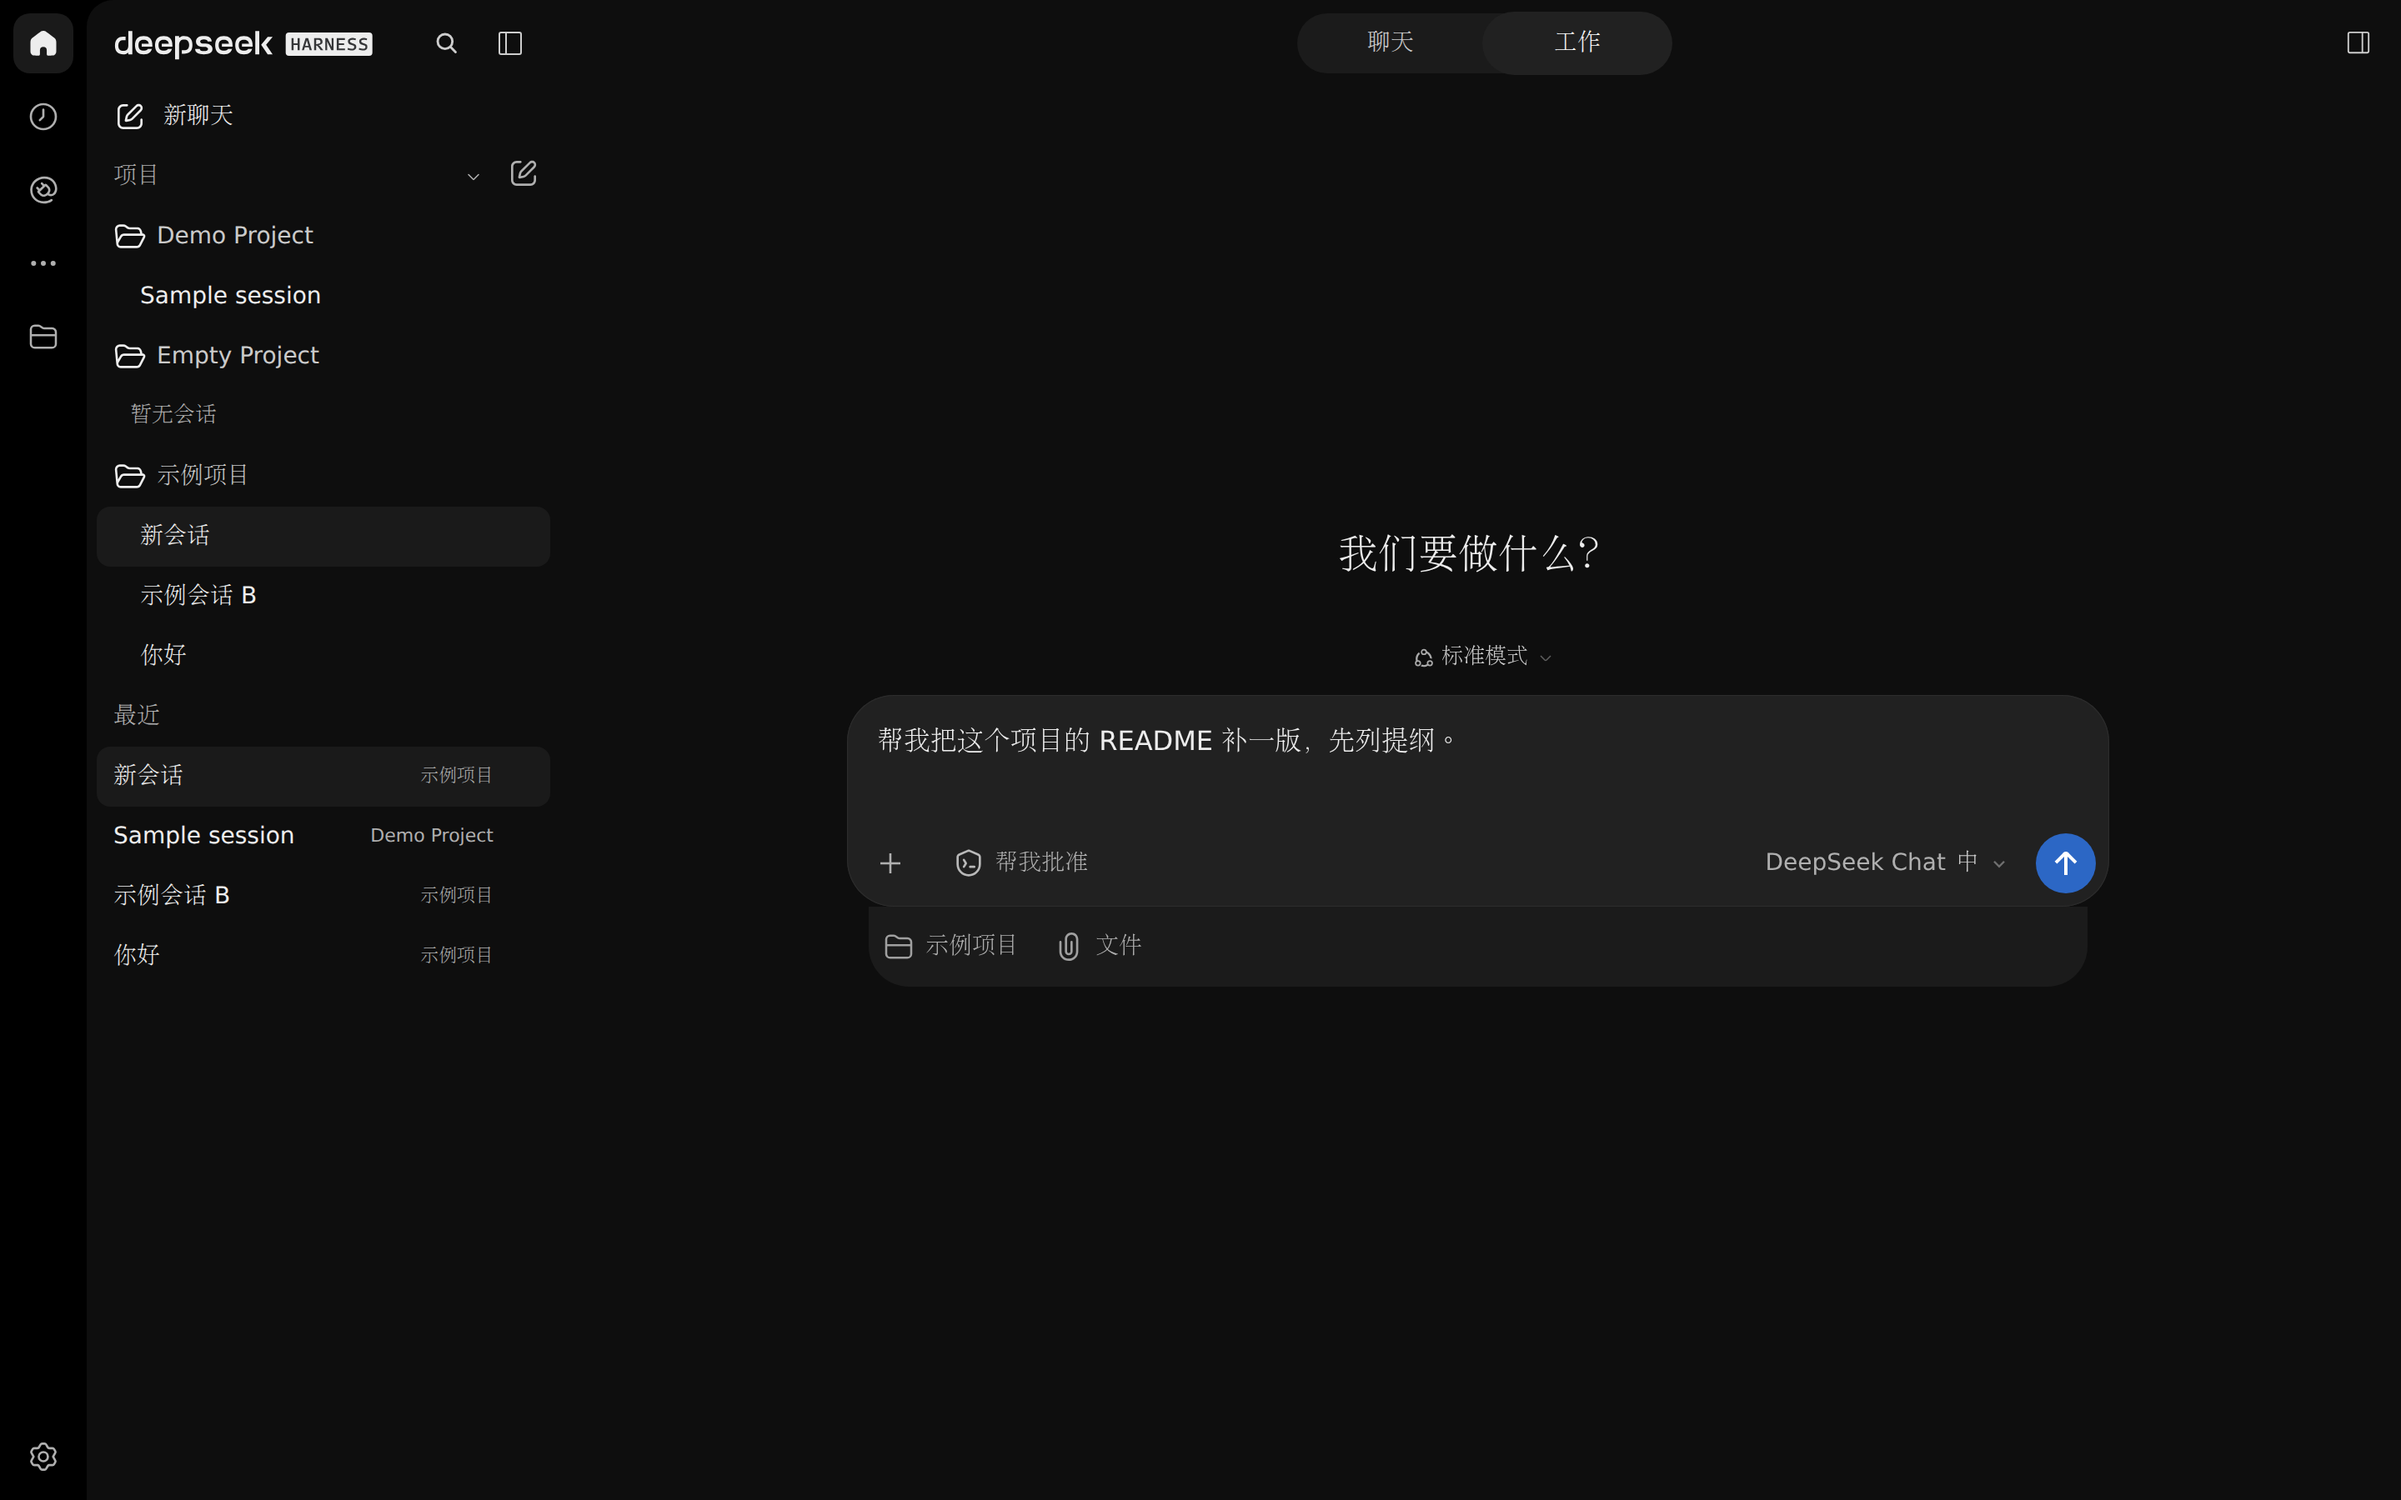
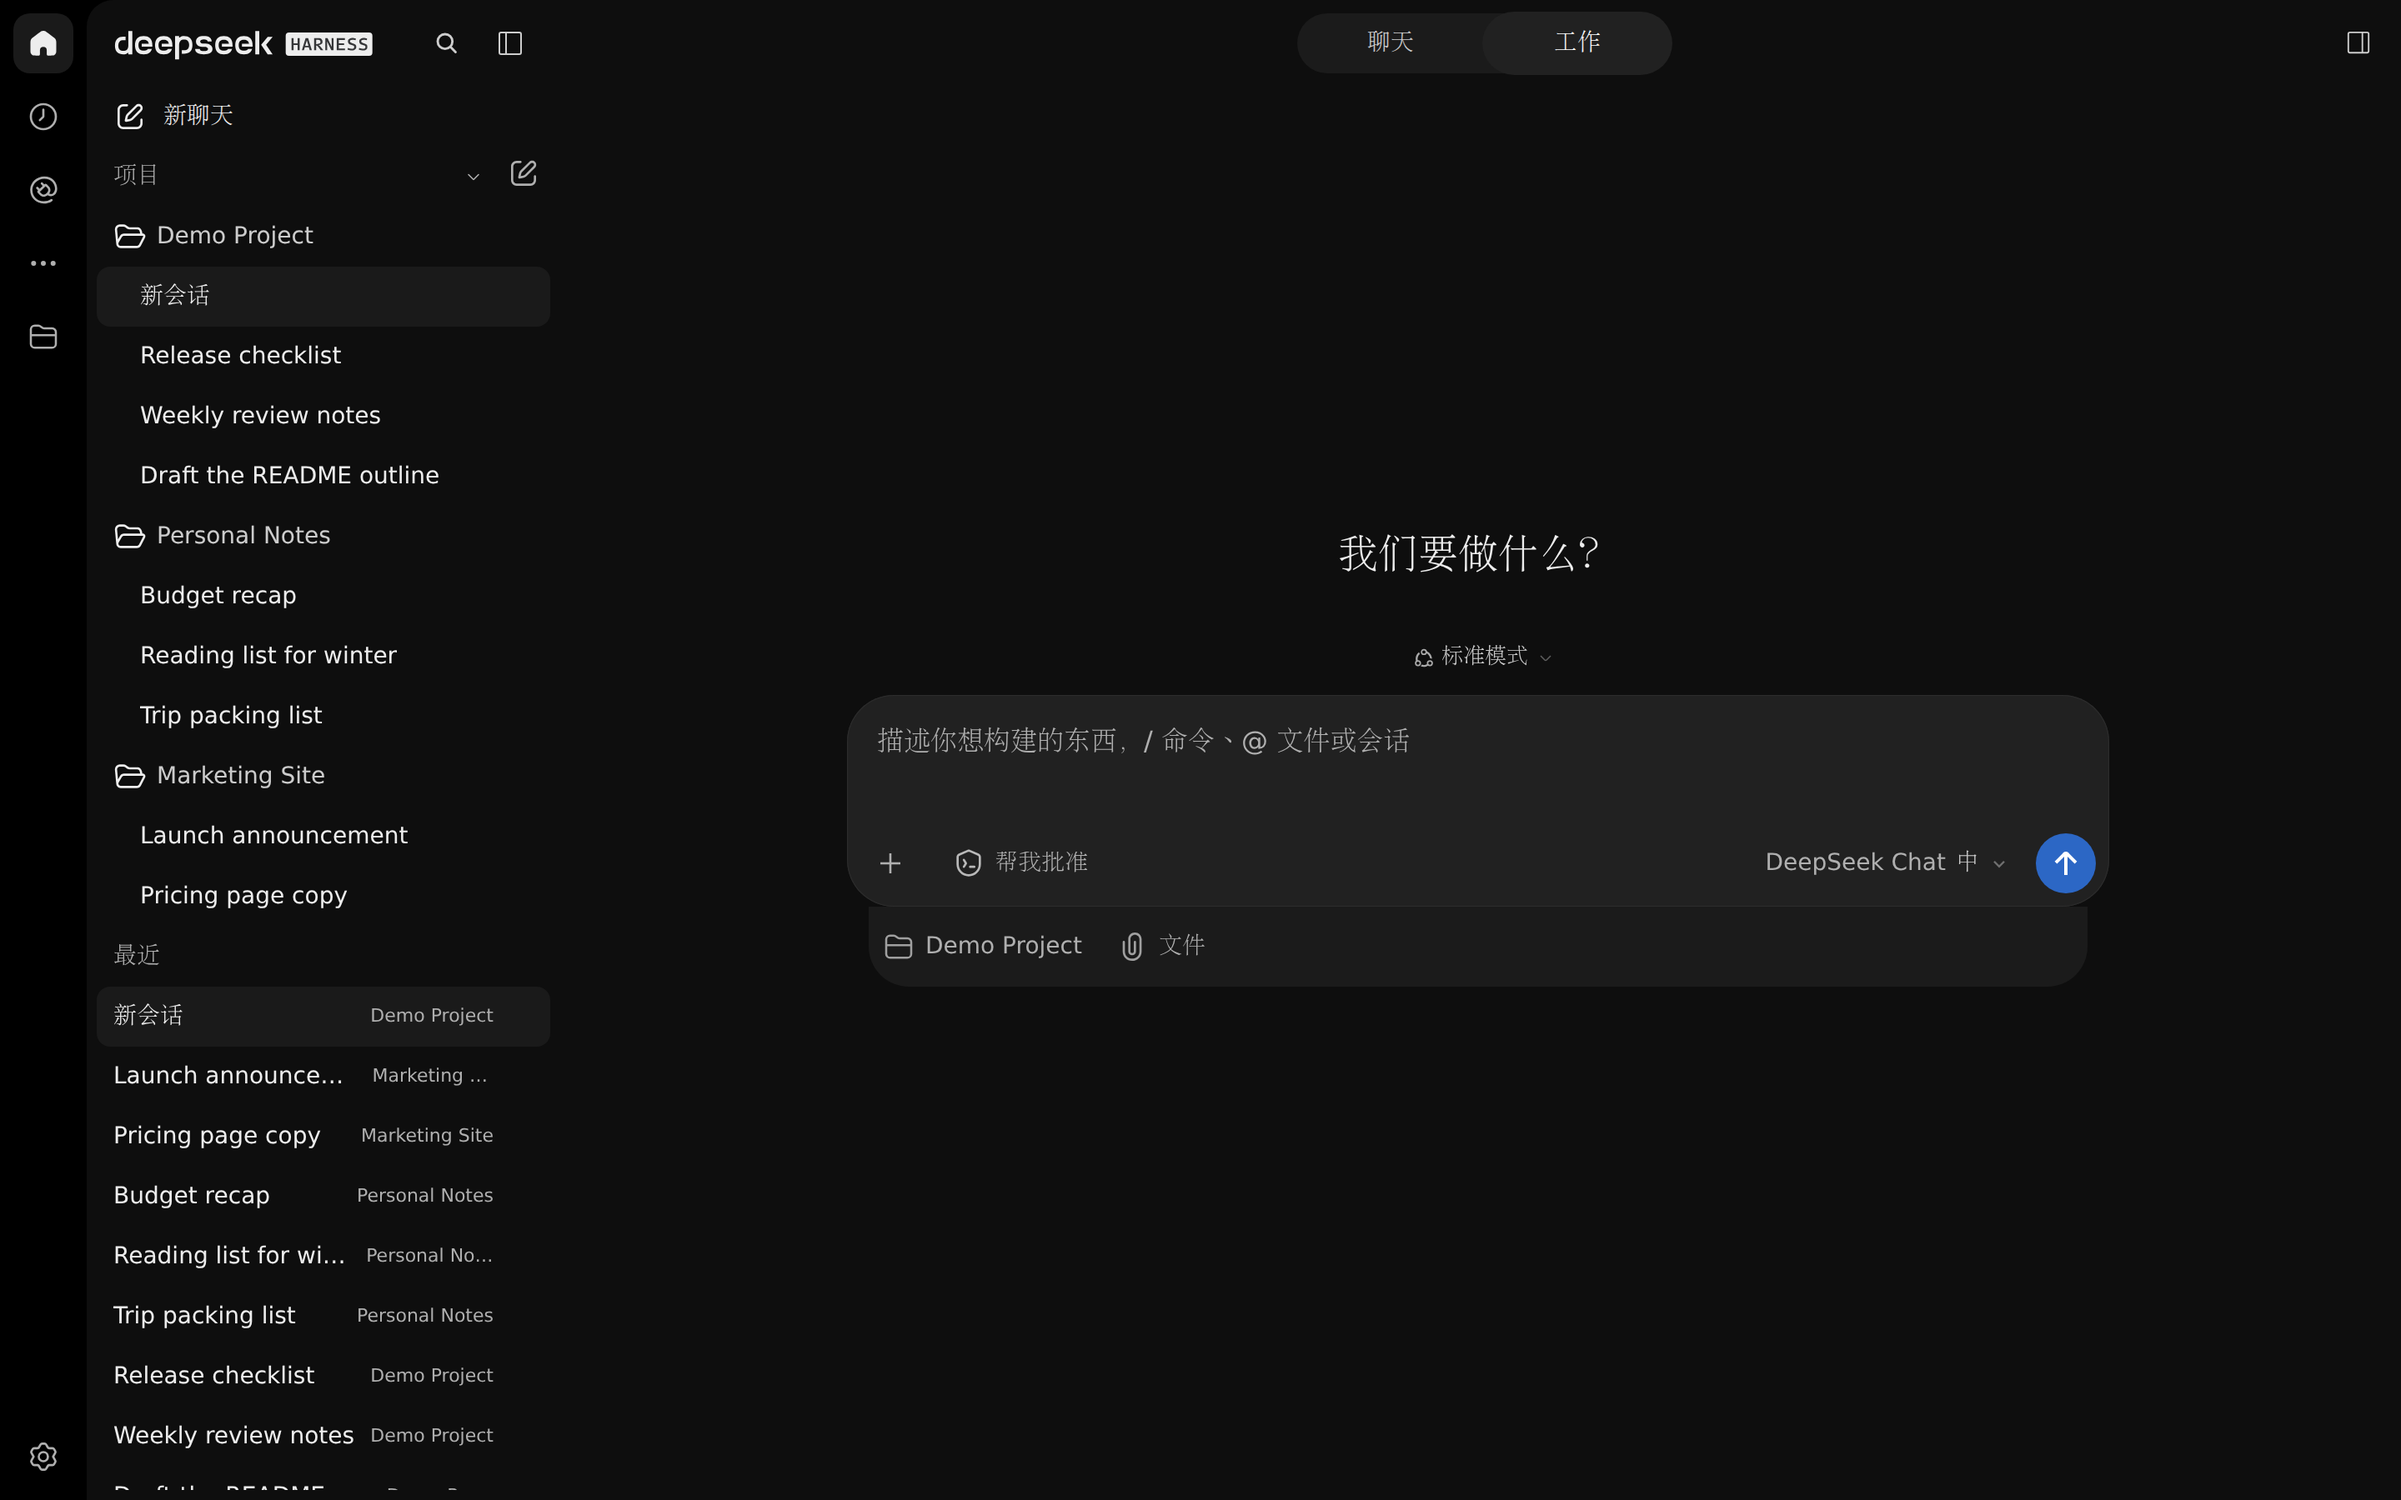
docs: refresh README screenshots
- hero 改成 Chat 空态（我们从哪里开始?），推理强度滑块在卡片上方展开，与 README 文案一致。
- 推理强度面板不再压住输入卡：底边对齐卡片顶部（留 8px），并改为与卡片右缘对齐，
  空态标题不再被遮挡；一个会话只有一个展开的触发药丸。
- 演示数据统一为英文（Demo Project / Personal Notes / Marketing Site），隔离实例重造。
- tools/showcase-capture.mjs 增加自检：滑块存在、面板与卡片不重叠、可见文本无本机路径；
  采集前移开指针，避免项目 hover 卡片挡住对话。
- 回归：work-composer 新增两条面板几何断言。

diff --git a/lib/client.js b/lib/client.js
@@ -6791,9 +6791,20 @@ function chatgptPopoverAbove(anchor, width, height) {
   const margin = 8
   const viewport = typeof window === 'undefined' ? { innerWidth: 1024, innerHeight: 768 } : window
   const left = Math.max(margin, Math.min(viewport.innerWidth - width - margin, anchor.right - width))
-  const above = anchor.top - height - margin
+  /* P1-f2: a panel opened from inside the composer clears the whole card, not
+     just the row its trigger lives in. The model/effort pill sits at the bottom
+     of a card that grows upwards, so anchoring on the pill alone let the panel
+     cover the text area; the project picker already passes the card rect. */
+  const card = typeof document === 'undefined' ? null : document.querySelector('[data-composer-card="true"]')?.getBoundingClientRect()
+  const ceiling = card === undefined ? anchor.top : Math.min(anchor.top, card.top)
+  const above = ceiling - height - margin
   const top = above >= margin ? above : Math.min(viewport.innerHeight - height - margin, anchor.bottom + margin)
-  return { left: Math.round(left), top: Math.round(top) }
+  /* Aligning the panel to the card's right edge keeps it clear of the centred
+     empty-state greeting, which sits only ~40px above the card. */
+  const anchoredLeft = card === undefined
+    ? left
+    : Math.max(margin, Math.min(viewport.innerWidth - width - margin, card.right - width))
+  return { left: Math.round(anchoredLeft), top: Math.round(top) }
 }
 
 /**

diff --git a/lib/client/composer.js b/lib/client/composer.js
@@ -198,9 +198,20 @@ function chatgptPopoverAbove(anchor, width, height) {
   const margin = 8
   const viewport = typeof window === 'undefined' ? { innerWidth: 1024, innerHeight: 768 } : window
   const left = Math.max(margin, Math.min(viewport.innerWidth - width - margin, anchor.right - width))
-  const above = anchor.top - height - margin
+  /* P1-f2: a panel opened from inside the composer clears the whole card, not
+     just the row its trigger lives in. The model/effort pill sits at the bottom
+     of a card that grows upwards, so anchoring on the pill alone let the panel
+     cover the text area; the project picker already passes the card rect. */
+  const card = typeof document === 'undefined' ? null : document.querySelector('[data-composer-card="true"]')?.getBoundingClientRect()
+  const ceiling = card === undefined ? anchor.top : Math.min(anchor.top, card.top)
+  const above = ceiling - height - margin
   const top = above >= margin ? above : Math.min(viewport.innerHeight - height - margin, anchor.bottom + margin)
-  return { left: Math.round(left), top: Math.round(top) }
+  /* Aligning the panel to the card's right edge keeps it clear of the centred
+     empty-state greeting, which sits only ~40px above the card. */
+  const anchoredLeft = card === undefined
+    ? left
+    : Math.max(margin, Math.min(viewport.innerWidth - width - margin, card.right - width))
+  return { left: Math.round(anchoredLeft), top: Math.round(top) }
 }
 
 /**

diff --git a/docs/testing.md b/docs/testing.md
@@ -53,10 +53,10 @@ npm test                # 需要本机证据
 ```sh
 export DSH_HOME=$(mktemp -d /tmp/dsh-demo-XXXX)
 dsh plugin --profile web add /path/to/dsh-chatgpt-ui
-dsh web --no-open --port 3104          # 打印带 token 的 URL
+dsh web --no-open --port 3105          # 打印带 token 的 URL
 ```
 
-- **矩阵**：`npm run matrix -- --url "http://127.0.0.1:3104/?token=…" --playwright …`
+- **矩阵**：`npm run matrix -- --url "http://127.0.0.1:3105/?token=…" --playwright …`
   （即 `scripts/matrix9.mjs`），产出 `docs/screenshots/matrix9-*.png` 与
   `docs/matrix9.json`；有 `diff`/`missing` 时非零退出，`--allow-diff` 只报告。
 - **全景矩阵（开发工具）**：`node tools/matrix.mjs --url-dark … --url-light … --out docs`，
@@ -75,13 +75,17 @@ dsh web --no-open --port 3104          # 打印带 token 的 URL
 README 里的四张图由 `tools/showcase-capture.mjs` 生成，同样只连隔离实例：
 
 ```sh
-node tools/showcase-capture.mjs --url "http://127.0.0.1:3104/?token=…"
+node tools/showcase-capture.mjs --url "http://127.0.0.1:3105/?token=…"
 ```
 
-脚本会拒绝非 `127.0.0.1:3104` 的地址，固定 1440×900 @2x、深色、zh-CN，并断言推理
-强度滑块确实展开。演示数据要求：两个项目（`示例项目` / `Demo Project`）加一个空项目
-（`Empty Project`），三个会话（`你好` / `示例会话 B` / `Sample session`）。
-截图里不得出现真实项目名、会话标题、路径或头像——提交前逐张目检。
+脚本默认只接受 `127.0.0.1:3105`（可用 `--port` 改），固定 1440×900 @2x、深色、
+zh-CN，并断言：推理强度滑块确实展开、面板底边与输入卡顶边不重叠、只存在一个展开的
+触发药丸、没有 hover 卡片遮住对话、界面里不出现本机路径。
+
+演示数据全部用英文，避免和中文界面混在一起：三个项目 `Demo Project`（3 条会话）、
+`Personal Notes`（3 条）、`Marketing Site`（2 条），其中 `Draft the README outline`
+有一条完整对话（用户气泡 + 助手回答）。截图里不允许出现真实项目名、会话标题、
+用户路径或头像——提交前逐张目检。
 
 ## 6. 已知的验收边界
 

diff --git a/README.md b/README.md
@@ -3,7 +3,7 @@
 ChatGPT 桌面版风格的 DSH Web GUI 皮肤：只换外观，不动行为——装与不装插件，
 任务/目标、执行步骤、文件与输出聚合、折叠面板全部原样保留。
 
-![新建会话（深色），推理强度滑块展开](docs/images/new-session-effort-dark.png)
+![Chat 模式空态（深色），推理强度滑块在输入卡上方展开](docs/images/new-session-effort-dark.png)
 
 ## 亮点
 
@@ -35,12 +35,12 @@ dsh plugin --profile web add /path/to/dsh-chatgpt-ui
 
 ## 截图
 
-1440×900 @2x，深色；演示数据来自临时隔离实例，不含任何真实项目、会话或路径。
+1440×900 @2x，深色；演示数据（`Demo Project` / `Personal Notes` / `Marketing Site`）来自临时隔离实例，统一为英文，不含任何真实项目、会话或路径。
 
-| 新建会话 · 推理强度滑块 | 新建会话 · Work 模式 |
+| Chat 空态 · 推理强度滑块 | Work 空态 · 新建会话 |
 | --- | --- |
-| ![新建会话，模型与推理强度选滑块展开](docs/images/new-session-effort-dark.png) | ![Work 模式新建会话，项目已选，权限按钮与底部一行](docs/images/new-session-work-dark.png) |
-| 点模型药丸展开推理强度滑块，拖动切换档位，最高档走渐变。 | 输入卡、已选项目 `示例项目`、`帮我批准` 权限按钮与底部 `项目 · 文件` 一行。 |
+| ![Chat 模式空态，推理强度滑块在输入卡上方展开](docs/images/new-session-effort-dark.png) | ![Work 模式新建会话，项目已选，权限按钮与底部一行](docs/images/new-session-work-dark.png) |
+| 空态标题 `我们从哪里开始?`，模型药丸展开推理强度滑块：面板贴在卡片上方、不遮挡输入卡，拖动切换档位。 | 输入卡、已选项目 `Demo Project`、`帮我批准` 权限按钮与底部 `项目 · 文件` 一行。 |
 
 | 既有会话 · 消息与输入卡 | 侧栏细节 · 项目菜单 |
 | --- | --- |

diff --git a/CHANGELOG.md b/CHANGELOG.md
@@ -3,6 +3,16 @@
 按里程碑倒序。`M*` 是九个复刻模块，`P0-*` 是复刻过程中按用户反馈插入的对齐项；
 每条都附当时的验收方式（矩阵截图 / 证据 JSON / 测试套件）。
 
+## 2026-11 — 截图重拍（P1-f2）
+
+- 首图改成 **Chat 空态**（`我们从哪里开始?`）+ 推理强度滑块展开，与 README 正文一致。
+- 滑块面板改为对齐输入卡右缘、底边停在卡片上方 8px：不再压住输入卡，也不再挡空态
+  标题；一个会话只有一个展开的触发药丸。
+- 演示数据统一为英文（`Demo Project` / `Personal Notes` / `Marketing Site`，
+  会话 `Draft the README outline` / `Weekly review notes` / …），隔离实例重造。
+- `tools/showcase-capture.mjs` 增加三道截图自检：滑块存在、面板与卡片不重叠、可见
+  文本里没有本机路径；采集前把指针移开项目行，避免 hover 卡片挡住对话。
+
 ## 2026-11 — 仓库化
 
 - 整理为可发布仓库：`.gitignore`（证据与参考截图不入库）、README 与 `docs/`
